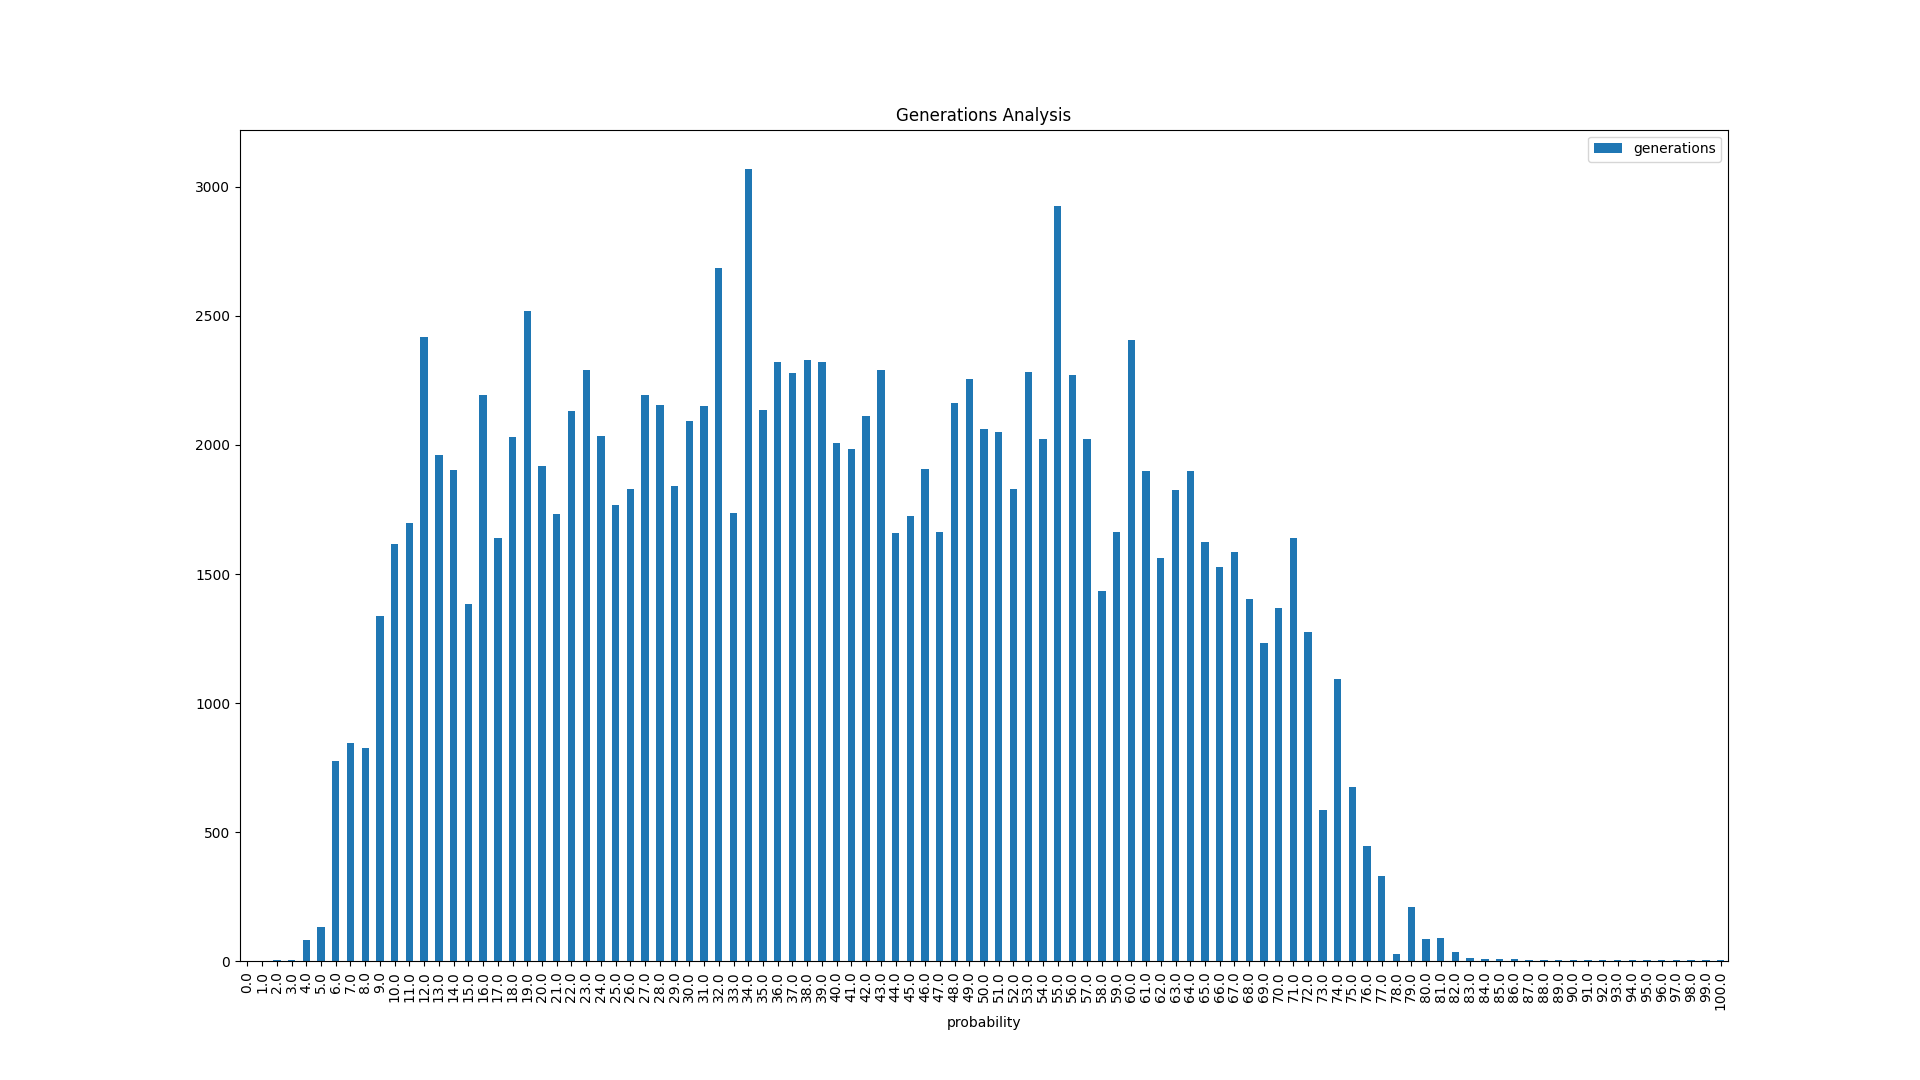
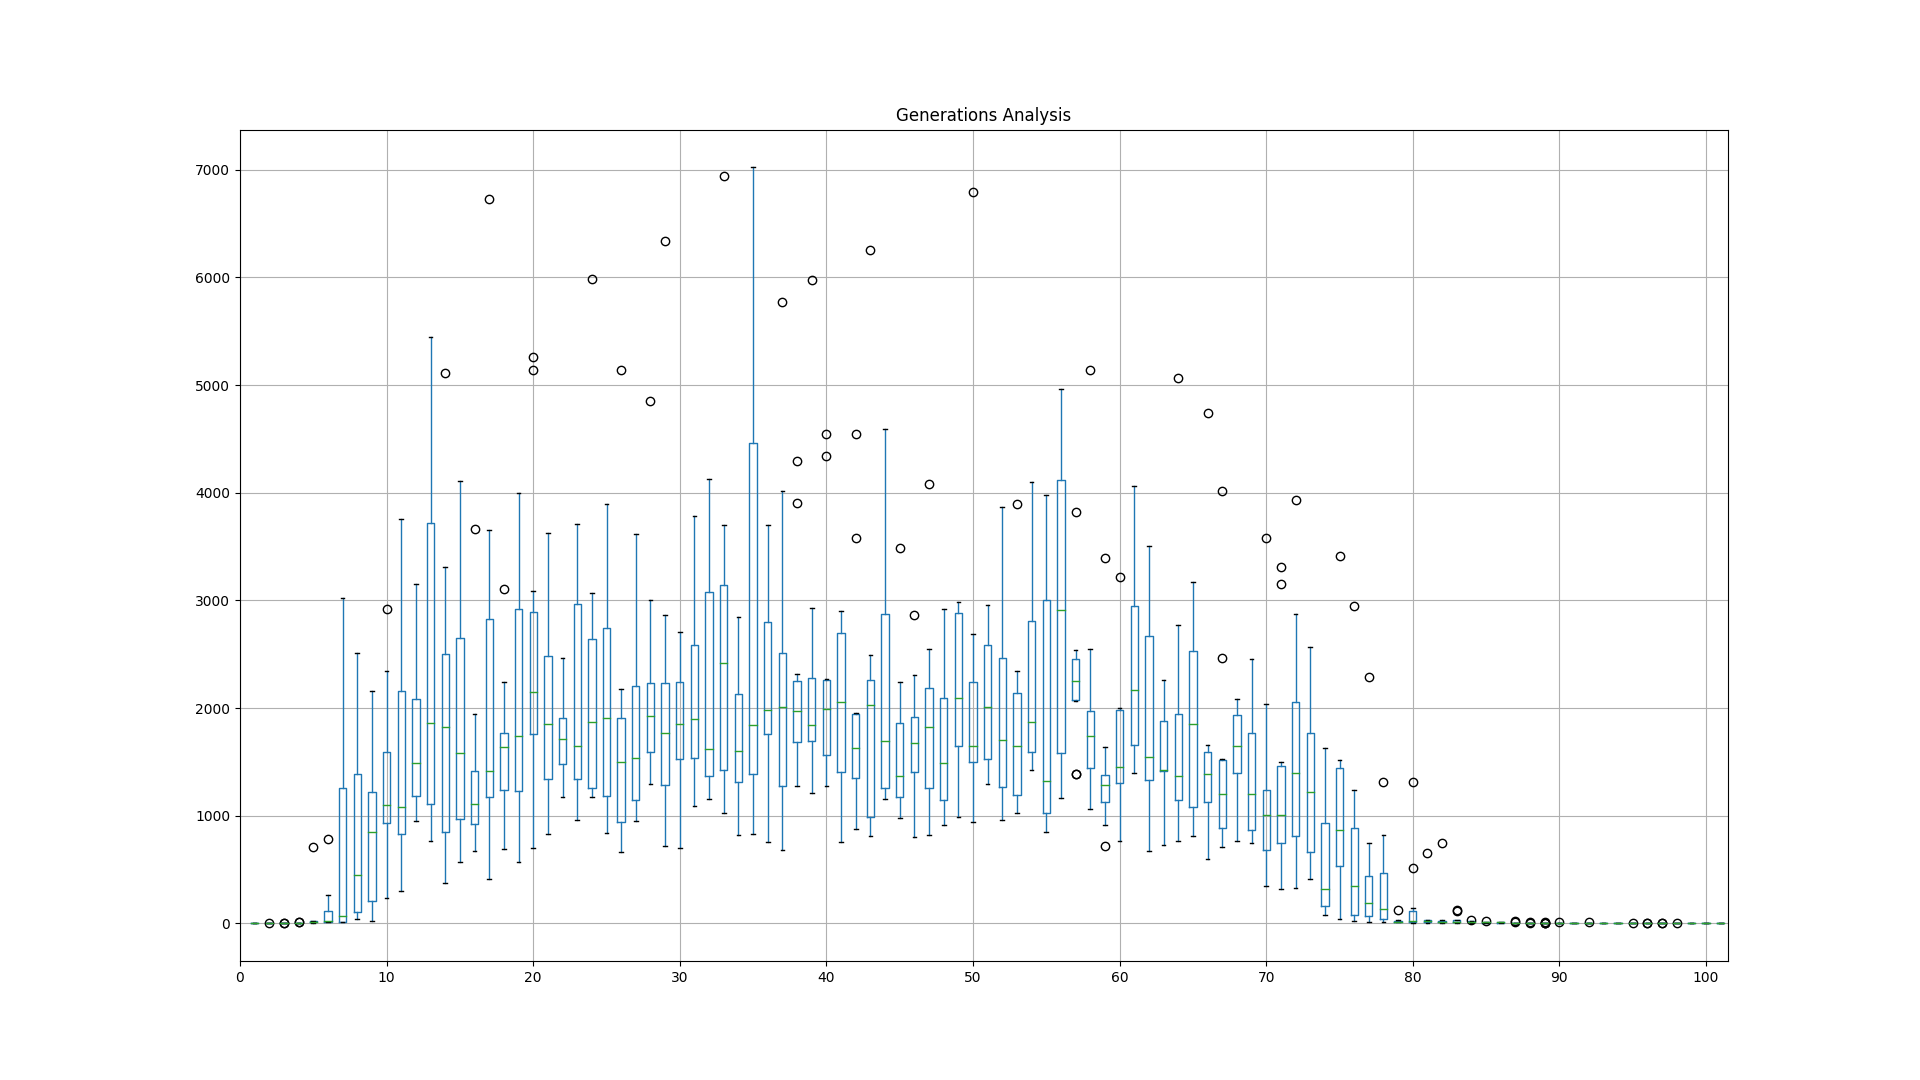
change to boxplot

diff --git a/data_analysis.py b/data_analysis.py
@@ -7,15 +7,24 @@ import matplotlib.pyplot as plt
 
 # check if file exists
 file_exists = exists('life_analysis.csv')
+median = True
+savetype = 'total'
 
 if file_exists:
     df = pd.read_csv('life_analysis.csv')
-    df = df.groupby(np.arange(len(df))//10).mean()
+
+    if median:
+        df = df.groupby(np.arange(len(df))//10)
+        savetype = 'median'
 
     data = [('generations', 'Generations Analysis'),
             ('population_size', 'Population Analysis')]
 
     for y, title in data:
-        df.plot(kind='bar', x='probability', y=y, title=title)
+
+        df.boxplot('probability', y)
+        plt.xticks(range(0, 101, 10), range(0, 101, 10))
+        plt.title(title)
         plt.gcf().set_size_inches(19.2, 10.8)
         plt.savefig(fname=f'results/{y}')
+        plt.show()
